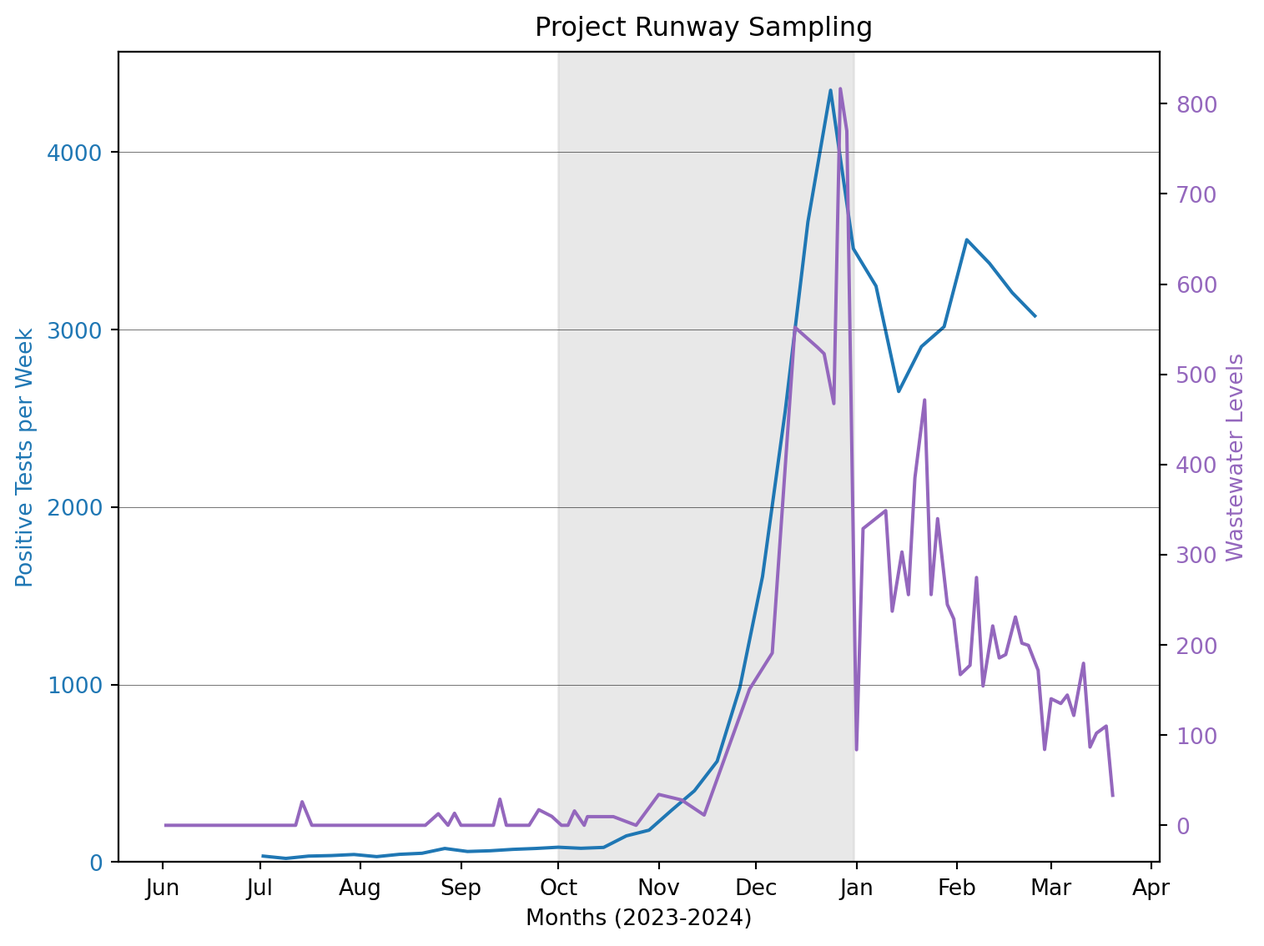
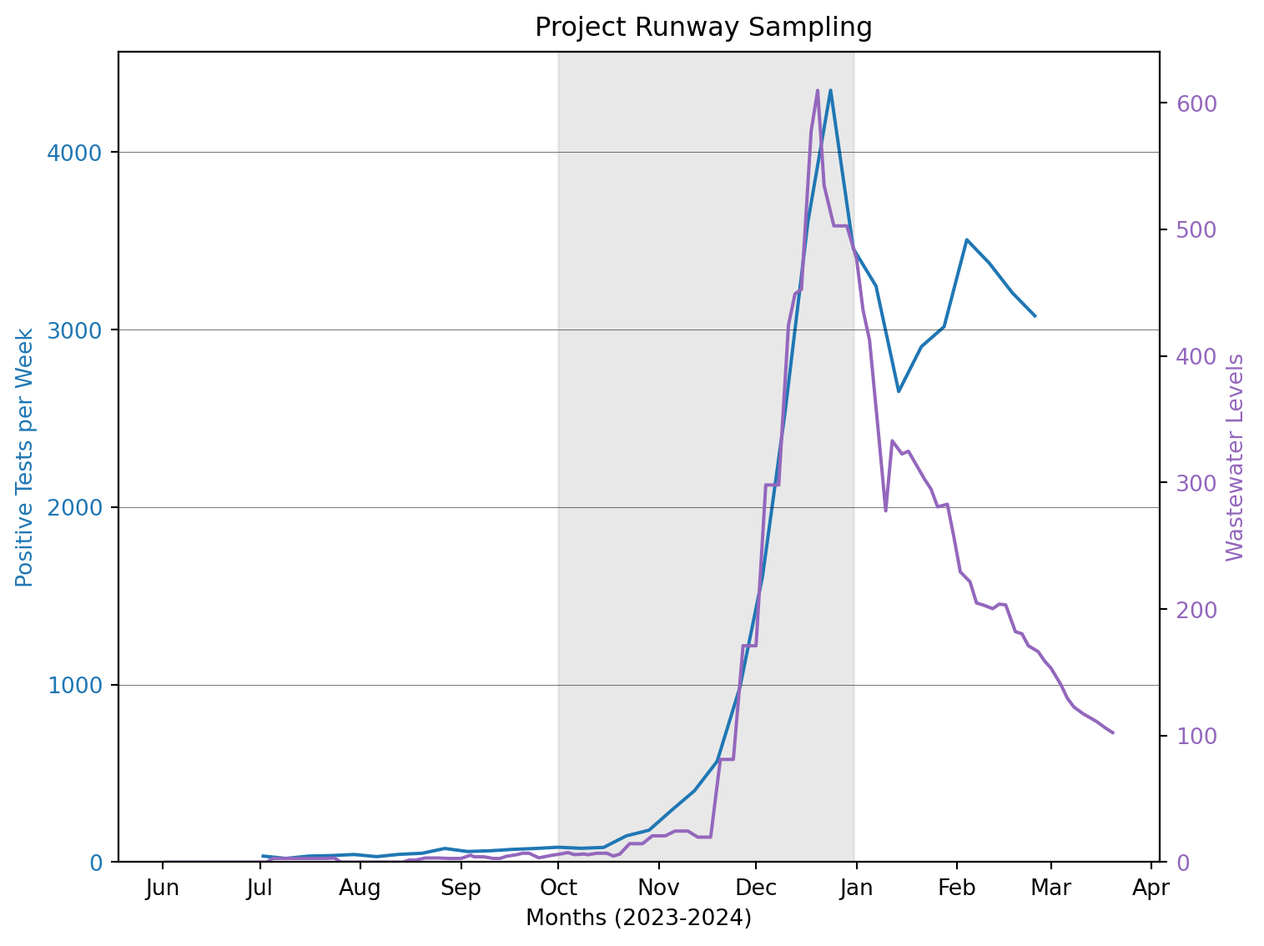
Updated Public health post based on mike's suggestions (rolling average for qpcr data of21 days, aligning lower limits of y axis.

diff --git a/_site/posts/2024-03-20-public-health-data/index.html b/_site/posts/2024-03-20-public-health-data/index.html
@@ -308,7 +308,7 @@ pre > code.sourceCode > span > a:first-child::before { text-decoration: underlin
 <figcaption>MA Counties</figcaption>
 </figure>
 </div>
-<div id="384b1587" class="cell" data-execution_count="1">
+<div id="d0346656" class="cell" data-execution_count="1">
 <details class="code-fold">
 <summary>Code</summary>
 <div class="sourceCode cell-code" id="cb1"><pre class="sourceCode python code-with-copy"><code class="sourceCode python"><span id="cb1-1"><a href="#cb1-1" aria-hidden="true" tabindex="-1"></a><span class="im">import</span> pandas <span class="im">as</span> pd</span>
@@ -326,7 +326,7 @@ pre > code.sourceCode > span > a:first-child::before { text-decoration: underlin
 <section id="covid-19" class="level2">
 <h2 class="anchored" data-anchor-id="covid-19">COVID-19</h2>
 <p>The plot below shows data both for the entire state and the counties covered by Deer Island (Suffolk, Norfolk, Middlesex). COVID-19 cases see a decrease until the beginning of November and a sharp increase and peak over the rest of the Project Runway coverage period.</p>
-<div id="1af038e3" class="cell" data-execution_count="2">
+<div id="75d89777" class="cell" data-execution_count="2">
 <details class="code-fold">
 <summary>Code</summary>
 <div class="sourceCode cell-code" id="cb2"><pre class="sourceCode python code-with-copy"><code class="sourceCode python"><span id="cb2-1"><a href="#cb2-1" aria-hidden="true" tabindex="-1"></a>fig, ax1 <span class="op">=</span> plt.subplots(figsize<span class="op">=</span>(<span class="dv">8</span>, <span class="dv">6</span>))</span>
@@ -398,7 +398,7 @@ pre > code.sourceCode > span > a:first-child::before { text-decoration: underlin
 <section id="influenza" class="level2">
 <h2 class="anchored" data-anchor-id="influenza">Influenza</h2>
 <p>We do not have Percentage Positivity data for Influenza. Still, based on the number of positive tests the Influenza season likely started during the PR coverage period.</p>
-<div id="b863224d" class="cell" data-execution_count="3">
+<div id="02f6a31c" class="cell" data-execution_count="3">
 <details class="code-fold">
 <summary>Code</summary>
 <div class="sourceCode cell-code" id="cb3"><pre class="sourceCode python code-with-copy"><code class="sourceCode python"><span id="cb3-1"><a href="#cb3-1" aria-hidden="true" tabindex="-1"></a>df_flu[<span class="st">'date'</span>] <span class="op">=</span> pd.to_datetime(df_flu[<span class="st">'Week Start Date'</span>], <span class="bu">format</span><span class="op">=</span><span class="st">'%m/</span><span class="sc">%d</span><span class="st">/%y'</span>)</span>
@@ -439,7 +439,7 @@ pre > code.sourceCode > span > a:first-child::before { text-decoration: underlin
 <p>Due to the lower number of tests, the data from NREVSS is a lot less useful. Nevertheless, it might still be interesting to check if Rhinovirus relative abundance drops from October to end of December, as we see a decline in Rhinovirus tests and positive percentage rates during that time.</p>
 <section id="respiratory-adenovirus" class="level2">
 <h2 class="anchored" data-anchor-id="respiratory-adenovirus">Respiratory Adenovirus</h2>
-<div id="ad87b0c2" class="cell" data-execution_count="4">
+<div id="8861f4c7" class="cell" data-execution_count="4">
 <details class="code-fold">
 <summary>Code</summary>
 <div class="sourceCode cell-code" id="cb4"><pre class="sourceCode python code-with-copy"><code class="sourceCode python"><span id="cb4-1"><a href="#cb4-1" aria-hidden="true" tabindex="-1"></a>df <span class="op">=</span> df_adeno[df_adeno[<span class="st">'TestType'</span>] <span class="op">==</span> <span class="dv">4</span>]</span>
@@ -483,7 +483,7 @@ pre > code.sourceCode > span > a:first-child::before { text-decoration: underlin
 </section>
 <section id="parainfluenza" class="level2">
 <h2 class="anchored" data-anchor-id="parainfluenza">Parainfluenza</h2>
-<div id="c99936e9" class="cell" data-execution_count="5">
+<div id="cb8ecb08" class="cell" data-execution_count="5">
 <details class="code-fold">
 <summary>Code</summary>
 <div class="sourceCode cell-code" id="cb5"><pre class="sourceCode python code-with-copy"><code class="sourceCode python"><span id="cb5-1"><a href="#cb5-1" aria-hidden="true" tabindex="-1"></a>df <span class="op">=</span> df_parainfluenza[df_parainfluenza[<span class="st">'TestType'</span>] <span class="op">==</span> <span class="dv">4</span>]</span>
@@ -530,7 +530,7 @@ pre > code.sourceCode > span > a:first-child::before { text-decoration: underlin
 </section>
 <section id="rhinovirus" class="level2">
 <h2 class="anchored" data-anchor-id="rhinovirus">Rhinovirus</h2>
-<div id="b4887b1e" class="cell" data-execution_count="6">
+<div id="24618b59" class="cell" data-execution_count="6">
 <details class="code-fold">
 <summary>Code</summary>
 <div class="sourceCode cell-code" id="cb6"><pre class="sourceCode python code-with-copy"><code class="sourceCode python"><span id="cb6-1"><a href="#cb6-1" aria-hidden="true" tabindex="-1"></a>df_rhino[<span class="st">'percent_positive'</span>] <span class="op">=</span> df_rhino[<span class="st">'Rhinopos'</span>] <span class="op">/</span> df_rhino[<span class="st">'Rhinotest'</span>] <span class="op">*</span> <span class="dv">100</span></span>
@@ -582,53 +582,59 @@ pre > code.sourceCode > span > a:first-child::before { text-decoration: underlin
 <section id="positive-percentage" class="level3">
 <h3 class="anchored" data-anchor-id="positive-percentage">Positive Percentage</h3>
 <p>Positive Percentage rates coincide with more frequent spikes in the wastewater qPCR data.</p>
-<div id="28c9773d" class="cell" data-execution_count="7">
+<div id="0bdd5ddd" class="cell" data-execution_count="7">
 <details class="code-fold">
 <summary>Code</summary>
 <div class="sourceCode cell-code" id="cb7"><pre class="sourceCode python code-with-copy"><code class="sourceCode python"><span id="cb7-1"><a href="#cb7-1" aria-hidden="true" tabindex="-1"></a>df_wastewater <span class="op">=</span> pd.read_csv(<span class="st">'data/WWSCAN_selected_plants_all_targets_20240327.csv'</span>)</span>
 <span id="cb7-2"><a href="#cb7-2" aria-hidden="true" tabindex="-1"></a>df_wastewater[<span class="st">"date"</span>] <span class="op">=</span> pd.to_datetime(df_wastewater[<span class="st">"collection_date"</span>], <span class="bu">format</span><span class="op">=</span><span class="st">'%Y-%m-</span><span class="sc">%d</span><span class="st">'</span>)</span>
 <span id="cb7-3"><a href="#cb7-3" aria-hidden="true" tabindex="-1"></a>df_wastewater <span class="op">=</span> df_wastewater[(df_wastewater[<span class="st">'date'</span>] <span class="op">&gt;=</span> <span class="st">'2023-06-01'</span>) <span class="op">&amp;</span> (df_wastewater[<span class="st">'date'</span>] <span class="op">&lt;=</span> <span class="st">'2024-03-31'</span>)]</span>
 <span id="cb7-4"><a href="#cb7-4" aria-hidden="true" tabindex="-1"></a></span>
-<span id="cb7-5"><a href="#cb7-5" aria-hidden="true" tabindex="-1"></a></span>
-<span id="cb7-6"><a href="#cb7-6" aria-hidden="true" tabindex="-1"></a>df_wastewater[<span class="st">"adjusted_covid"</span>] <span class="op">=</span> df_wastewater[<span class="st">"N_Gene_gc_g_dry_weight"</span>] <span class="op">/</span> df_wastewater[<span class="st">"PMMoV_gc_g_dry_weight"</span>] <span class="op">*</span> <span class="fl">1e6</span></span>
-<span id="cb7-7"><a href="#cb7-7" aria-hidden="true" tabindex="-1"></a></span>
+<span id="cb7-5"><a href="#cb7-5" aria-hidden="true" tabindex="-1"></a>df_wastewater.set_index(<span class="st">'date'</span>, inplace<span class="op">=</span><span class="va">True</span>)</span>
+<span id="cb7-6"><a href="#cb7-6" aria-hidden="true" tabindex="-1"></a>df_wastewater[<span class="st">"adjusted_covid"</span>] <span class="op">=</span> (df_wastewater[<span class="st">"N_Gene_gc_g_dry_weight"</span>] <span class="op">/</span> df_wastewater[<span class="st">"PMMoV_gc_g_dry_weight"</span>] <span class="op">*</span> <span class="fl">1e6</span>).rolling(window<span class="op">=</span><span class="st">'21D'</span>, min_periods<span class="op">=</span><span class="dv">1</span>, center<span class="op">=</span><span class="va">True</span>).mean()</span>
+<span id="cb7-7"><a href="#cb7-7" aria-hidden="true" tabindex="-1"></a>df_wastewater.reset_index(inplace<span class="op">=</span><span class="va">True</span>)</span>
 <span id="cb7-8"><a href="#cb7-8" aria-hidden="true" tabindex="-1"></a>df_wastewater.dropna(subset<span class="op">=</span>[<span class="st">'adjusted_covid'</span>], inplace<span class="op">=</span><span class="va">True</span>)</span>
 <span id="cb7-9"><a href="#cb7-9" aria-hidden="true" tabindex="-1"></a></span>
-<span id="cb7-10"><a href="#cb7-10" aria-hidden="true" tabindex="-1"></a>df_covid <span class="op">=</span> pd.read_csv(<span class="st">'data/covid-19-dashboard-03-07-24/County data-Table 1.tsv'</span>, sep<span class="op">=</span><span class="st">'</span><span class="ch">\t</span><span class="st">'</span>)</span>
-<span id="cb7-11"><a href="#cb7-11" aria-hidden="true" tabindex="-1"></a>df_counties <span class="op">=</span> df_covid[df_covid[<span class="st">'County'</span>].isin([<span class="st">'Suffolk'</span>, <span class="st">'Norfolk'</span>, <span class="st">'Middlesex'</span>])]</span>
-<span id="cb7-12"><a href="#cb7-12" aria-hidden="true" tabindex="-1"></a>df_counties[<span class="st">"date"</span>] <span class="op">=</span> pd.to_datetime(df_counties[<span class="st">"Week Start Date"</span>], <span class="bu">format</span><span class="op">=</span><span class="st">'%m/</span><span class="sc">%d</span><span class="st">/%y'</span>)</span>
+<span id="cb7-10"><a href="#cb7-10" aria-hidden="true" tabindex="-1"></a></span>
+<span id="cb7-11"><a href="#cb7-11" aria-hidden="true" tabindex="-1"></a></span>
+<span id="cb7-12"><a href="#cb7-12" aria-hidden="true" tabindex="-1"></a>df_wastewater.dropna(subset<span class="op">=</span>[<span class="st">'adjusted_covid'</span>], inplace<span class="op">=</span><span class="va">True</span>)</span>
 <span id="cb7-13"><a href="#cb7-13" aria-hidden="true" tabindex="-1"></a></span>
-<span id="cb7-14"><a href="#cb7-14" aria-hidden="true" tabindex="-1"></a></span>
-<span id="cb7-15"><a href="#cb7-15" aria-hidden="true" tabindex="-1"></a>df_counties[<span class="st">"pos_agg"</span>] <span class="op">=</span> df_counties[<span class="st">"Positive tests the week"</span>].groupby(df_counties[<span class="st">"date"</span>]).transform(<span class="st">'sum'</span>)</span>
-<span id="cb7-16"><a href="#cb7-16" aria-hidden="true" tabindex="-1"></a>df_counties[<span class="st">"percent_positive_agg"</span>] <span class="op">=</span> df_counties[<span class="st">"pos_agg"</span>] <span class="op">/</span> df_counties.groupby(<span class="st">"date"</span>)[<span class="st">"Tests during the week"</span>].transform(<span class="st">'sum'</span>) <span class="op">*</span> <span class="dv">100</span></span>
-<span id="cb7-17"><a href="#cb7-17" aria-hidden="true" tabindex="-1"></a>fig, ax_cov <span class="op">=</span> plt.subplots(figsize<span class="op">=</span>(<span class="dv">8</span>, <span class="dv">6</span>))</span>
-<span id="cb7-18"><a href="#cb7-18" aria-hidden="true" tabindex="-1"></a>ax_cov.set_xlabel(<span class="st">'Months (2023-2024)'</span>)</span>
-<span id="cb7-19"><a href="#cb7-19" aria-hidden="true" tabindex="-1"></a>ax_cov.set_ylabel(<span class="st">'Positive Percentage'</span>, color<span class="op">=</span><span class="st">'tab:blue'</span>)</span>
-<span id="cb7-20"><a href="#cb7-20" aria-hidden="true" tabindex="-1"></a>ax_cov.tick_params(axis<span class="op">=</span><span class="st">'y'</span>, labelcolor<span class="op">=</span><span class="st">'tab:blue'</span>)</span>
-<span id="cb7-21"><a href="#cb7-21" aria-hidden="true" tabindex="-1"></a>ax_cov.plot(df_counties[<span class="st">"date"</span>], df_counties[<span class="st">"percent_positive_agg"</span>], color<span class="op">=</span><span class="st">'tab:blue'</span>, linestyle<span class="op">=</span><span class="st">'-'</span>, label<span class="op">=</span><span class="st">'Counties (% Positive)'</span>)</span>
-<span id="cb7-22"><a href="#cb7-22" aria-hidden="true" tabindex="-1"></a>ax_cov.xaxis.set_major_locator(mdates.MonthLocator())</span>
-<span id="cb7-23"><a href="#cb7-23" aria-hidden="true" tabindex="-1"></a>ax_cov.xaxis.set_major_formatter(mdates.DateFormatter(<span class="st">'%b'</span>))</span>
-<span id="cb7-24"><a href="#cb7-24" aria-hidden="true" tabindex="-1"></a></span>
-<span id="cb7-25"><a href="#cb7-25" aria-hidden="true" tabindex="-1"></a></span>
-<span id="cb7-26"><a href="#cb7-26" aria-hidden="true" tabindex="-1"></a></span>
-<span id="cb7-27"><a href="#cb7-27" aria-hidden="true" tabindex="-1"></a>ax_ww <span class="op">=</span> ax_cov.twinx()</span>
-<span id="cb7-28"><a href="#cb7-28" aria-hidden="true" tabindex="-1"></a>ax_ww.set_ylabel(<span class="st">'Wastewater Levels'</span>, color<span class="op">=</span><span class="st">'tab:purple'</span>)</span>
-<span id="cb7-29"><a href="#cb7-29" aria-hidden="true" tabindex="-1"></a>ax_ww.plot(df_wastewater[<span class="st">'date'</span>], df_wastewater[<span class="st">'adjusted_covid'</span>], color<span class="op">=</span><span class="st">'tab:purple'</span>, linestyle<span class="op">=</span><span class="st">'-'</span>, label<span class="op">=</span><span class="st">'Wastewater Levels'</span>)</span>
-<span id="cb7-30"><a href="#cb7-30" aria-hidden="true" tabindex="-1"></a><span class="co"># color ticks</span></span>
-<span id="cb7-31"><a href="#cb7-31" aria-hidden="true" tabindex="-1"></a>ax_ww.tick_params(axis<span class="op">=</span><span class="st">'y'</span>, labelcolor<span class="op">=</span><span class="st">'tab:purple'</span>)</span>
-<span id="cb7-32"><a href="#cb7-32" aria-hidden="true" tabindex="-1"></a></span>
-<span id="cb7-33"><a href="#cb7-33" aria-hidden="true" tabindex="-1"></a>ax_cov_yminlim, ax_cov_ymaxlim <span class="op">=</span> ax_cov.get_ylim()</span>
-<span id="cb7-34"><a href="#cb7-34" aria-hidden="true" tabindex="-1"></a>ax_cov.set_ylim(<span class="dv">0</span>, ax_cov_ymaxlim)</span>
-<span id="cb7-35"><a href="#cb7-35" aria-hidden="true" tabindex="-1"></a></span>
-<span id="cb7-36"><a href="#cb7-36" aria-hidden="true" tabindex="-1"></a><span class="cf">for</span> y <span class="kw">in</span> <span class="bu">range</span>(<span class="dv">0</span>, <span class="bu">int</span>(ax_cov_ymaxlim) <span class="op">+</span> <span class="dv">1</span>, <span class="dv">1000</span>):</span>
-<span id="cb7-37"><a href="#cb7-37" aria-hidden="true" tabindex="-1"></a>    ax_cov.axhline(y, color<span class="op">=</span><span class="st">'black'</span>, linestyle<span class="op">=</span><span class="st">'-'</span>, lw<span class="op">=</span><span class="fl">0.2</span>)</span>
-<span id="cb7-38"><a href="#cb7-38" aria-hidden="true" tabindex="-1"></a></span>
-<span id="cb7-39"><a href="#cb7-39" aria-hidden="true" tabindex="-1"></a>ax_cov.axvspan(pd.to_datetime(<span class="st">'2023-10-01'</span>), pd.to_datetime(<span class="st">'2023-12-31'</span>), color<span class="op">=</span><span class="st">'lightgrey'</span>, alpha<span class="op">=</span><span class="fl">0.5</span>)</span>
-<span id="cb7-40"><a href="#cb7-40" aria-hidden="true" tabindex="-1"></a>ax_cov.text(pd.to_datetime(<span class="st">'2023-11-15'</span>), ax_cov_ymaxlim <span class="op">*</span> <span class="fl">1.02</span>, <span class="st">'Project Runway Sampling'</span>, fontsize<span class="op">=</span><span class="dv">12</span>, ha<span class="op">=</span><span class="st">'center'</span>)</span>
-<span id="cb7-41"><a href="#cb7-41" aria-hidden="true" tabindex="-1"></a></span>
-<span id="cb7-42"><a href="#cb7-42" aria-hidden="true" tabindex="-1"></a>fig.tight_layout()</span>
-<span id="cb7-43"><a href="#cb7-43" aria-hidden="true" tabindex="-1"></a>plt.show()</span>
-<span id="cb7-44"><a href="#cb7-44" aria-hidden="true" tabindex="-1"></a>fig.clf()</span></code><button title="Copy to Clipboard" class="code-copy-button"><i class="bi"></i></button></pre></div>
+<span id="cb7-14"><a href="#cb7-14" aria-hidden="true" tabindex="-1"></a>df_covid <span class="op">=</span> pd.read_csv(<span class="st">'data/covid-19-dashboard-03-07-24/County data-Table 1.tsv'</span>, sep<span class="op">=</span><span class="st">'</span><span class="ch">\t</span><span class="st">'</span>)</span>
+<span id="cb7-15"><a href="#cb7-15" aria-hidden="true" tabindex="-1"></a>df_counties <span class="op">=</span> df_covid[df_covid[<span class="st">'County'</span>].isin([<span class="st">'Suffolk'</span>, <span class="st">'Norfolk'</span>, <span class="st">'Middlesex'</span>])]</span>
+<span id="cb7-16"><a href="#cb7-16" aria-hidden="true" tabindex="-1"></a>df_counties[<span class="st">"date"</span>] <span class="op">=</span> pd.to_datetime(df_counties[<span class="st">"Week Start Date"</span>], <span class="bu">format</span><span class="op">=</span><span class="st">'%m/</span><span class="sc">%d</span><span class="st">/%y'</span>)</span>
+<span id="cb7-17"><a href="#cb7-17" aria-hidden="true" tabindex="-1"></a></span>
+<span id="cb7-18"><a href="#cb7-18" aria-hidden="true" tabindex="-1"></a></span>
+<span id="cb7-19"><a href="#cb7-19" aria-hidden="true" tabindex="-1"></a>df_counties[<span class="st">"pos_agg"</span>] <span class="op">=</span> df_counties[<span class="st">"Positive tests the week"</span>].groupby(df_counties[<span class="st">"date"</span>]).transform(<span class="st">'sum'</span>)</span>
+<span id="cb7-20"><a href="#cb7-20" aria-hidden="true" tabindex="-1"></a>df_counties[<span class="st">"percent_positive_agg"</span>] <span class="op">=</span> df_counties[<span class="st">"pos_agg"</span>] <span class="op">/</span> df_counties.groupby(<span class="st">"date"</span>)[<span class="st">"Tests during the week"</span>].transform(<span class="st">'sum'</span>) <span class="op">*</span> <span class="dv">100</span></span>
+<span id="cb7-21"><a href="#cb7-21" aria-hidden="true" tabindex="-1"></a>fig, ax_cov <span class="op">=</span> plt.subplots(figsize<span class="op">=</span>(<span class="dv">8</span>, <span class="dv">6</span>))</span>
+<span id="cb7-22"><a href="#cb7-22" aria-hidden="true" tabindex="-1"></a>ax_cov.set_xlabel(<span class="st">'Months (2023-2024)'</span>)</span>
+<span id="cb7-23"><a href="#cb7-23" aria-hidden="true" tabindex="-1"></a>ax_cov.set_ylabel(<span class="st">'Positive Percentage'</span>, color<span class="op">=</span><span class="st">'tab:blue'</span>)</span>
+<span id="cb7-24"><a href="#cb7-24" aria-hidden="true" tabindex="-1"></a>ax_cov.tick_params(axis<span class="op">=</span><span class="st">'y'</span>, labelcolor<span class="op">=</span><span class="st">'tab:blue'</span>)</span>
+<span id="cb7-25"><a href="#cb7-25" aria-hidden="true" tabindex="-1"></a>ax_cov.plot(df_counties[<span class="st">"date"</span>], df_counties[<span class="st">"percent_positive_agg"</span>], color<span class="op">=</span><span class="st">'tab:blue'</span>, linestyle<span class="op">=</span><span class="st">'-'</span>, label<span class="op">=</span><span class="st">'Counties (% Positive)'</span>)</span>
+<span id="cb7-26"><a href="#cb7-26" aria-hidden="true" tabindex="-1"></a>ax_cov.xaxis.set_major_locator(mdates.MonthLocator())</span>
+<span id="cb7-27"><a href="#cb7-27" aria-hidden="true" tabindex="-1"></a>ax_cov.xaxis.set_major_formatter(mdates.DateFormatter(<span class="st">'%b'</span>))</span>
+<span id="cb7-28"><a href="#cb7-28" aria-hidden="true" tabindex="-1"></a></span>
+<span id="cb7-29"><a href="#cb7-29" aria-hidden="true" tabindex="-1"></a></span>
+<span id="cb7-30"><a href="#cb7-30" aria-hidden="true" tabindex="-1"></a></span>
+<span id="cb7-31"><a href="#cb7-31" aria-hidden="true" tabindex="-1"></a>ax_ww <span class="op">=</span> ax_cov.twinx()</span>
+<span id="cb7-32"><a href="#cb7-32" aria-hidden="true" tabindex="-1"></a>ax_ww.set_ylabel(<span class="st">'Wastewater Levels'</span>, color<span class="op">=</span><span class="st">'tab:purple'</span>)</span>
+<span id="cb7-33"><a href="#cb7-33" aria-hidden="true" tabindex="-1"></a>ax_ww.plot(df_wastewater[<span class="st">'date'</span>], df_wastewater[<span class="st">'adjusted_covid'</span>], color<span class="op">=</span><span class="st">'tab:purple'</span>, linestyle<span class="op">=</span><span class="st">'-'</span>, label<span class="op">=</span><span class="st">'Wastewater Levels'</span>)</span>
+<span id="cb7-34"><a href="#cb7-34" aria-hidden="true" tabindex="-1"></a><span class="co"># color ticks</span></span>
+<span id="cb7-35"><a href="#cb7-35" aria-hidden="true" tabindex="-1"></a>ax_ww.tick_params(axis<span class="op">=</span><span class="st">'y'</span>, labelcolor<span class="op">=</span><span class="st">'tab:purple'</span>)</span>
+<span id="cb7-36"><a href="#cb7-36" aria-hidden="true" tabindex="-1"></a></span>
+<span id="cb7-37"><a href="#cb7-37" aria-hidden="true" tabindex="-1"></a>ax_cov_yminlim, ax_cov_ymaxlim <span class="op">=</span> ax_cov.get_ylim()</span>
+<span id="cb7-38"><a href="#cb7-38" aria-hidden="true" tabindex="-1"></a>ax_cov.set_ylim(<span class="dv">0</span>, ax_cov_ymaxlim)</span>
+<span id="cb7-39"><a href="#cb7-39" aria-hidden="true" tabindex="-1"></a></span>
+<span id="cb7-40"><a href="#cb7-40" aria-hidden="true" tabindex="-1"></a><span class="cf">for</span> y <span class="kw">in</span> <span class="bu">range</span>(<span class="dv">0</span>, <span class="bu">int</span>(ax_cov_ymaxlim) <span class="op">+</span> <span class="dv">1</span>, <span class="dv">1000</span>):</span>
+<span id="cb7-41"><a href="#cb7-41" aria-hidden="true" tabindex="-1"></a>    ax_cov.axhline(y, color<span class="op">=</span><span class="st">'black'</span>, linestyle<span class="op">=</span><span class="st">'-'</span>, lw<span class="op">=</span><span class="fl">0.2</span>)</span>
+<span id="cb7-42"><a href="#cb7-42" aria-hidden="true" tabindex="-1"></a></span>
+<span id="cb7-43"><a href="#cb7-43" aria-hidden="true" tabindex="-1"></a>ax_cov.axvspan(pd.to_datetime(<span class="st">'2023-10-01'</span>), pd.to_datetime(<span class="st">'2023-12-31'</span>), color<span class="op">=</span><span class="st">'lightgrey'</span>, alpha<span class="op">=</span><span class="fl">0.5</span>)</span>
+<span id="cb7-44"><a href="#cb7-44" aria-hidden="true" tabindex="-1"></a>ax_cov.text(pd.to_datetime(<span class="st">'2023-11-15'</span>), ax_cov_ymaxlim <span class="op">*</span> <span class="fl">1.02</span>, <span class="st">'Project Runway Sampling'</span>, fontsize<span class="op">=</span><span class="dv">12</span>, ha<span class="op">=</span><span class="st">'center'</span>)</span>
+<span id="cb7-45"><a href="#cb7-45" aria-hidden="true" tabindex="-1"></a>min_ylim <span class="op">=</span> <span class="dv">0</span></span>
+<span id="cb7-46"><a href="#cb7-46" aria-hidden="true" tabindex="-1"></a>ax_cov.set_ylim(bottom<span class="op">=</span>min_ylim)</span>
+<span id="cb7-47"><a href="#cb7-47" aria-hidden="true" tabindex="-1"></a>ax_ww.set_ylim(bottom<span class="op">=</span>min_ylim)</span>
+<span id="cb7-48"><a href="#cb7-48" aria-hidden="true" tabindex="-1"></a>fig.tight_layout()</span>
+<span id="cb7-49"><a href="#cb7-49" aria-hidden="true" tabindex="-1"></a>plt.show()</span>
+<span id="cb7-50"><a href="#cb7-50" aria-hidden="true" tabindex="-1"></a>fig.clf()</span></code><button title="Copy to Clipboard" class="code-copy-button"><i class="bi"></i></button></pre></div>
 </details>
 <div class="cell-output cell-output-display">
 <div>
@@ -642,7 +648,7 @@ pre > code.sourceCode > span > a:first-child::before { text-decoration: underlin
 <section id="positive-tests" class="level3">
 <h3 class="anchored" data-anchor-id="positive-tests">Positive Tests</h3>
 <p>Positive Testing rates also match the wastewater qPCR data. They track the lower levels of the wastewater qPCR data in the September COVID-19 surge more closely than the positive percentage rates.</p>
-<div id="fe856f56" class="cell" data-execution_count="8">
+<div id="b3c4b78c" class="cell" data-execution_count="8">
 <details class="code-fold">
 <summary>Code</summary>
 <div class="sourceCode cell-code" id="cb8"><pre class="sourceCode python code-with-copy"><code class="sourceCode python"><span id="cb8-1"><a href="#cb8-1" aria-hidden="true" tabindex="-1"></a>fig, ax_cov <span class="op">=</span> plt.subplots(figsize<span class="op">=</span>(<span class="dv">8</span>, <span class="dv">6</span>))</span>
@@ -669,10 +675,12 @@ pre > code.sourceCode > span > a:first-child::before { text-decoration: underlin
 <span id="cb8-22"><a href="#cb8-22" aria-hidden="true" tabindex="-1"></a></span>
 <span id="cb8-23"><a href="#cb8-23" aria-hidden="true" tabindex="-1"></a>ax_cov.axvspan(pd.to_datetime(<span class="st">'2023-10-01'</span>), pd.to_datetime(<span class="st">'2023-12-31'</span>), color<span class="op">=</span><span class="st">'lightgrey'</span>, alpha<span class="op">=</span><span class="fl">0.5</span>)</span>
 <span id="cb8-24"><a href="#cb8-24" aria-hidden="true" tabindex="-1"></a>ax_cov.text(pd.to_datetime(<span class="st">'2023-11-15'</span>), ax_cov_ymaxlim <span class="op">*</span> <span class="fl">1.02</span>, <span class="st">'Project Runway Sampling'</span>, fontsize<span class="op">=</span><span class="dv">12</span>, ha<span class="op">=</span><span class="st">'center'</span>)</span>
-<span id="cb8-25"><a href="#cb8-25" aria-hidden="true" tabindex="-1"></a></span>
-<span id="cb8-26"><a href="#cb8-26" aria-hidden="true" tabindex="-1"></a>fig.tight_layout()</span>
-<span id="cb8-27"><a href="#cb8-27" aria-hidden="true" tabindex="-1"></a>plt.show()</span>
-<span id="cb8-28"><a href="#cb8-28" aria-hidden="true" tabindex="-1"></a>fig.clf()</span></code><button title="Copy to Clipboard" class="code-copy-button"><i class="bi"></i></button></pre></div>
+<span id="cb8-25"><a href="#cb8-25" aria-hidden="true" tabindex="-1"></a>min_ylim <span class="op">=</span> <span class="dv">0</span></span>
+<span id="cb8-26"><a href="#cb8-26" aria-hidden="true" tabindex="-1"></a>ax_cov.set_ylim(bottom<span class="op">=</span><span class="dv">0</span>)</span>
+<span id="cb8-27"><a href="#cb8-27" aria-hidden="true" tabindex="-1"></a>ax_ww.set_ylim(bottom<span class="op">=</span><span class="dv">0</span>)</span>
+<span id="cb8-28"><a href="#cb8-28" aria-hidden="true" tabindex="-1"></a>fig.tight_layout()</span>
+<span id="cb8-29"><a href="#cb8-29" aria-hidden="true" tabindex="-1"></a>plt.show()</span>
+<span id="cb8-30"><a href="#cb8-30" aria-hidden="true" tabindex="-1"></a>fig.clf()</span></code><button title="Copy to Clipboard" class="code-copy-button"><i class="bi"></i></button></pre></div>
 </details>
 <div class="cell-output cell-output-display">
 <div>
@@ -687,23 +695,23 @@ pre > code.sourceCode > span > a:first-child::before { text-decoration: underlin
 <section id="influenza-1" class="level2">
 <h2 class="anchored" data-anchor-id="influenza-1">Influenza</h2>
 <p>We use the same method to normalize influenza rates. As with COVID-19, an increase in influenza testing rates coincides with an increase in the wastewater qPCR data. The increase in the Influenza wastewater levels is a bit more stable than what we see for COVID-19.</p>
-<div id="202e137c" class="cell" data-execution_count="9">
+<div id="bc28e7de" class="cell" data-execution_count="9">
 <details class="code-fold">
 <summary>Code</summary>
 <div class="sourceCode cell-code" id="cb9"><pre class="sourceCode python code-with-copy"><code class="sourceCode python"><span id="cb9-1"><a href="#cb9-1" aria-hidden="true" tabindex="-1"></a>df_wastewater <span class="op">=</span> pd.read_csv(<span class="st">'data/WWSCAN_selected_plants_all_targets_20240327.csv'</span>)</span>
 <span id="cb9-2"><a href="#cb9-2" aria-hidden="true" tabindex="-1"></a>df_wastewater[<span class="st">"date"</span>] <span class="op">=</span> pd.to_datetime(df_wastewater[<span class="st">"collection_date"</span>], <span class="bu">format</span><span class="op">=</span><span class="st">'%Y-%m-</span><span class="sc">%d</span><span class="st">'</span>)</span>
-<span id="cb9-3"><a href="#cb9-3" aria-hidden="true" tabindex="-1"></a>df_wastewater[<span class="st">"adjusted_flu"</span>] <span class="op">=</span> df_wastewater[<span class="st">"Influenza_A_gc_g_dry_weight"</span>] <span class="op">/</span> df_wastewater[<span class="st">"PMMoV_gc_g_dry_weight"</span>] <span class="op">*</span> <span class="fl">1e6</span></span>
-<span id="cb9-4"><a href="#cb9-4" aria-hidden="true" tabindex="-1"></a>df_wastewater <span class="op">=</span> df_wastewater[(df_wastewater[<span class="st">'date'</span>] <span class="op">&gt;=</span> <span class="st">'2023-06-01'</span>) <span class="op">&amp;</span> (df_wastewater[<span class="st">'date'</span>] <span class="op">&lt;=</span> <span class="st">'2024-03-31'</span>)]</span>
-<span id="cb9-5"><a href="#cb9-5" aria-hidden="true" tabindex="-1"></a>df_wastewater.dropna(subset<span class="op">=</span>[<span class="st">'adjusted_flu'</span>], inplace<span class="op">=</span><span class="va">True</span>)</span>
-<span id="cb9-6"><a href="#cb9-6" aria-hidden="true" tabindex="-1"></a></span>
-<span id="cb9-7"><a href="#cb9-7" aria-hidden="true" tabindex="-1"></a>october_start <span class="op">=</span> pd.to_datetime(<span class="st">'2023-10-01'</span>)</span>
-<span id="cb9-8"><a href="#cb9-8" aria-hidden="true" tabindex="-1"></a>january_end <span class="op">=</span> pd.to_datetime(<span class="st">'2024-01-31'</span>)</span>
-<span id="cb9-9"><a href="#cb9-9" aria-hidden="true" tabindex="-1"></a>affected_range <span class="op">=</span> df_wastewater[(df_wastewater[<span class="st">'date'</span>] <span class="op">&gt;=</span> october_start) <span class="op">&amp;</span> (df_wastewater[<span class="st">'date'</span>] <span class="op">&lt;=</span> january_end)]</span>
-<span id="cb9-10"><a href="#cb9-10" aria-hidden="true" tabindex="-1"></a></span>
-<span id="cb9-11"><a href="#cb9-11" aria-hidden="true" tabindex="-1"></a>df_flu <span class="op">=</span> df_flu[(df_flu[<span class="st">'date'</span>] <span class="op">&gt;=</span> <span class="st">'2023-06-01'</span>) <span class="op">&amp;</span> (df_flu[<span class="st">'date'</span>] <span class="op">&lt;=</span> <span class="st">'2024-03-31'</span>)]</span>
-<span id="cb9-12"><a href="#cb9-12" aria-hidden="true" tabindex="-1"></a></span>
-<span id="cb9-13"><a href="#cb9-13" aria-hidden="true" tabindex="-1"></a>df_flu <span class="op">=</span> pd.read_csv(<span class="st">'data/flu-dashboard-data-03-07-24/Influenza Lab Tests Reported-Table 1.tsv'</span>, sep<span class="op">=</span><span class="st">'</span><span class="ch">\t</span><span class="st">'</span>)</span>
-<span id="cb9-14"><a href="#cb9-14" aria-hidden="true" tabindex="-1"></a>df_flu[<span class="st">'date'</span>] <span class="op">=</span> pd.to_datetime(df_flu[<span class="st">'Week Start Date'</span>], <span class="bu">format</span><span class="op">=</span><span class="st">'%m/</span><span class="sc">%d</span><span class="st">/%y'</span>)</span>
+<span id="cb9-3"><a href="#cb9-3" aria-hidden="true" tabindex="-1"></a></span>
+<span id="cb9-4"><a href="#cb9-4" aria-hidden="true" tabindex="-1"></a></span>
+<span id="cb9-5"><a href="#cb9-5" aria-hidden="true" tabindex="-1"></a></span>
+<span id="cb9-6"><a href="#cb9-6" aria-hidden="true" tabindex="-1"></a>df_wastewater.set_index(<span class="st">'date'</span>, inplace<span class="op">=</span><span class="va">True</span>)</span>
+<span id="cb9-7"><a href="#cb9-7" aria-hidden="true" tabindex="-1"></a>df_wastewater[<span class="st">"adjusted_flu"</span>] <span class="op">=</span> (df_wastewater[<span class="st">"Influenza_A_gc_g_dry_weight"</span>] <span class="op">/</span> df_wastewater[<span class="st">"PMMoV_gc_g_dry_weight"</span>] <span class="op">*</span> <span class="fl">1e6</span>).rolling(window<span class="op">=</span><span class="st">'21D'</span>, min_periods<span class="op">=</span><span class="dv">1</span>, center<span class="op">=</span><span class="va">True</span>).mean()</span>
+<span id="cb9-8"><a href="#cb9-8" aria-hidden="true" tabindex="-1"></a>df_wastewater.reset_index(inplace<span class="op">=</span><span class="va">True</span>)</span>
+<span id="cb9-9"><a href="#cb9-9" aria-hidden="true" tabindex="-1"></a>df_wastewater.dropna(subset<span class="op">=</span>[<span class="st">"adjusted_flu"</span>], inplace<span class="op">=</span><span class="va">True</span>)</span>
+<span id="cb9-10"><a href="#cb9-10" aria-hidden="true" tabindex="-1"></a>df_wastewater <span class="op">=</span> df_wastewater[(df_wastewater[<span class="st">'date'</span>] <span class="op">&gt;=</span> <span class="st">'2023-06-01'</span>) <span class="op">&amp;</span> (df_wastewater[<span class="st">'date'</span>] <span class="op">&lt;=</span> <span class="st">'2024-03-31'</span>)]</span>
+<span id="cb9-11"><a href="#cb9-11" aria-hidden="true" tabindex="-1"></a></span>
+<span id="cb9-12"><a href="#cb9-12" aria-hidden="true" tabindex="-1"></a>df_flu <span class="op">=</span> pd.read_csv(<span class="st">'data/flu-dashboard-data-03-07-24/Influenza Lab Tests Reported-Table 1.tsv'</span>, sep<span class="op">=</span><span class="st">'</span><span class="ch">\t</span><span class="st">'</span>)</span>
+<span id="cb9-13"><a href="#cb9-13" aria-hidden="true" tabindex="-1"></a>df_flu[<span class="st">'date'</span>] <span class="op">=</span> pd.to_datetime(df_flu[<span class="st">'Week Start Date'</span>], <span class="bu">format</span><span class="op">=</span><span class="st">'%m/</span><span class="sc">%d</span><span class="st">/%y'</span>)</span>
+<span id="cb9-14"><a href="#cb9-14" aria-hidden="true" tabindex="-1"></a>df_flu <span class="op">=</span> df_flu[(df_flu[<span class="st">'date'</span>] <span class="op">&gt;=</span> <span class="st">'2023-06-01'</span>) <span class="op">&amp;</span> (df_flu[<span class="st">'date'</span>] <span class="op">&lt;=</span> <span class="st">'2024-03-31'</span>)]</span>
 <span id="cb9-15"><a href="#cb9-15" aria-hidden="true" tabindex="-1"></a>df_flu[<span class="st">'pos_tests_across_flu_types'</span>] <span class="op">=</span> df_flu.groupby(<span class="st">'date'</span>)[<span class="st">'Positive lab tests'</span>].transform(<span class="st">'sum'</span>)</span>
 <span id="cb9-16"><a href="#cb9-16" aria-hidden="true" tabindex="-1"></a></span>
 <span id="cb9-17"><a href="#cb9-17" aria-hidden="true" tabindex="-1"></a></span>
@@ -720,7 +728,7 @@ pre > code.sourceCode > span > a:first-child::before { text-decoration: underlin
 <span id="cb9-28"><a href="#cb9-28" aria-hidden="true" tabindex="-1"></a>ax_ww <span class="op">=</span> ax_flu.twinx()</span>
 <span id="cb9-29"><a href="#cb9-29" aria-hidden="true" tabindex="-1"></a>ax_ww.set_ylabel(<span class="st">'Wastewater Levels'</span>, color<span class="op">=</span><span class="st">'tab:purple'</span>)</span>
 <span id="cb9-30"><a href="#cb9-30" aria-hidden="true" tabindex="-1"></a>ax_ww.plot(df_wastewater[<span class="st">'date'</span>], df_wastewater[<span class="st">'adjusted_flu'</span>], color<span class="op">=</span><span class="st">'tab:purple'</span>, linestyle<span class="op">=</span><span class="st">'-'</span>, label<span class="op">=</span><span class="st">'Wastewater Levels'</span>)</span>
-<span id="cb9-31"><a href="#cb9-31" aria-hidden="true" tabindex="-1"></a><span class="co"># color ticks</span></span>
+<span id="cb9-31"><a href="#cb9-31" aria-hidden="true" tabindex="-1"></a></span>
 <span id="cb9-32"><a href="#cb9-32" aria-hidden="true" tabindex="-1"></a>ax_ww.tick_params(axis<span class="op">=</span><span class="st">'y'</span>, labelcolor<span class="op">=</span><span class="st">'tab:purple'</span>)</span>
 <span id="cb9-33"><a href="#cb9-33" aria-hidden="true" tabindex="-1"></a></span>
 <span id="cb9-34"><a href="#cb9-34" aria-hidden="true" tabindex="-1"></a></span>
@@ -732,10 +740,12 @@ pre > code.sourceCode > span > a:first-child::before { text-decoration: underlin
 <span id="cb9-40"><a href="#cb9-40" aria-hidden="true" tabindex="-1"></a></span>
 <span id="cb9-41"><a href="#cb9-41" aria-hidden="true" tabindex="-1"></a>ax_flu.axvspan(pd.to_datetime(<span class="st">'2023-10-01'</span>), pd.to_datetime(<span class="st">'2023-12-31'</span>), color<span class="op">=</span><span class="st">'lightgrey'</span>, alpha<span class="op">=</span><span class="fl">0.5</span>)</span>
 <span id="cb9-42"><a href="#cb9-42" aria-hidden="true" tabindex="-1"></a>ax_flu.text(pd.to_datetime(<span class="st">'2023-11-15'</span>), ax_ymaxlim <span class="op">*</span> <span class="fl">1.02</span>, <span class="st">'Project Runway Sampling'</span>, fontsize<span class="op">=</span><span class="dv">12</span>, ha<span class="op">=</span><span class="st">'center'</span>)</span>
-<span id="cb9-43"><a href="#cb9-43" aria-hidden="true" tabindex="-1"></a></span>
-<span id="cb9-44"><a href="#cb9-44" aria-hidden="true" tabindex="-1"></a>fig.tight_layout()</span>
-<span id="cb9-45"><a href="#cb9-45" aria-hidden="true" tabindex="-1"></a>plt.show()</span>
-<span id="cb9-46"><a href="#cb9-46" aria-hidden="true" tabindex="-1"></a>fig.clf()</span></code><button title="Copy to Clipboard" class="code-copy-button"><i class="bi"></i></button></pre></div>
+<span id="cb9-43"><a href="#cb9-43" aria-hidden="true" tabindex="-1"></a>min_ylim <span class="op">=</span> <span class="dv">0</span></span>
+<span id="cb9-44"><a href="#cb9-44" aria-hidden="true" tabindex="-1"></a>ax_flu.set_ylim(bottom<span class="op">=</span>min_ylim)</span>
+<span id="cb9-45"><a href="#cb9-45" aria-hidden="true" tabindex="-1"></a>ax_ww.set_ylim(bottom<span class="op">=</span>min_ylim)</span>
+<span id="cb9-46"><a href="#cb9-46" aria-hidden="true" tabindex="-1"></a>fig.tight_layout()</span>
+<span id="cb9-47"><a href="#cb9-47" aria-hidden="true" tabindex="-1"></a>plt.show()</span>
+<span id="cb9-48"><a href="#cb9-48" aria-hidden="true" tabindex="-1"></a>fig.clf()</span></code><button title="Copy to Clipboard" class="code-copy-button"><i class="bi"></i></button></pre></div>
 </details>
 <div class="cell-output cell-output-display">
 <div>

diff --git a/_site/index.html b/_site/index.html
@@ -184,7 +184,7 @@ window.Quarto = {
 
 <div class="quarto-listing quarto-listing-container-default" id="listing-listing">
 <div class="list quarto-listing-default">
-<div class="quarto-post image-right" data-index="0" data-listing-date-sort="1711580400000" data-listing-file-modified-sort="1711620790602" data-listing-date-modified-sort="NaN" data-listing-reading-time-sort="16" data-listing-word-count-sort="3022">
+<div class="quarto-post image-right" data-index="0" data-listing-date-sort="1711580400000" data-listing-file-modified-sort="1711624549367" data-listing-date-modified-sort="NaN" data-listing-reading-time-sort="16" data-listing-word-count-sort="3022">
 <div class="thumbnail">
 <p><a href="./posts/2024-03-28-triturator-research/index.html" class="no-external"></a></p><a href="./posts/2024-03-28-triturator-research/index.html" class="no-external">
 <p class="card-img-top"><img src="posts/2024-03-28-triturator-research/index_files/figure-html/cell-4-output-1.png"  class="thumbnail-image card-img"/></p>
@@ -212,7 +212,7 @@ Simon Grimm
 </a>
 </div>
 </div>
-<div class="quarto-post image-right" data-index="1" data-listing-date-sort="1710889200000" data-listing-file-modified-sort="1711550768466" data-listing-date-modified-sort="NaN" data-listing-reading-time-sort="8" data-listing-word-count-sort="1550">
+<div class="quarto-post image-right" data-index="1" data-listing-date-sort="1710889200000" data-listing-file-modified-sort="1711626331278" data-listing-date-modified-sort="NaN" data-listing-reading-time-sort="8" data-listing-word-count-sort="1549">
 <div class="thumbnail">
 <p><a href="./posts/2024-03-20-public-health-data/index.html" class="no-external"></a></p><a href="./posts/2024-03-20-public-health-data/index.html" class="no-external">
 <p class="card-img-top"><img src="posts/2024-03-20-public-health-data/images/mwra_coverage.png"  class="thumbnail-image card-img"/></p>
